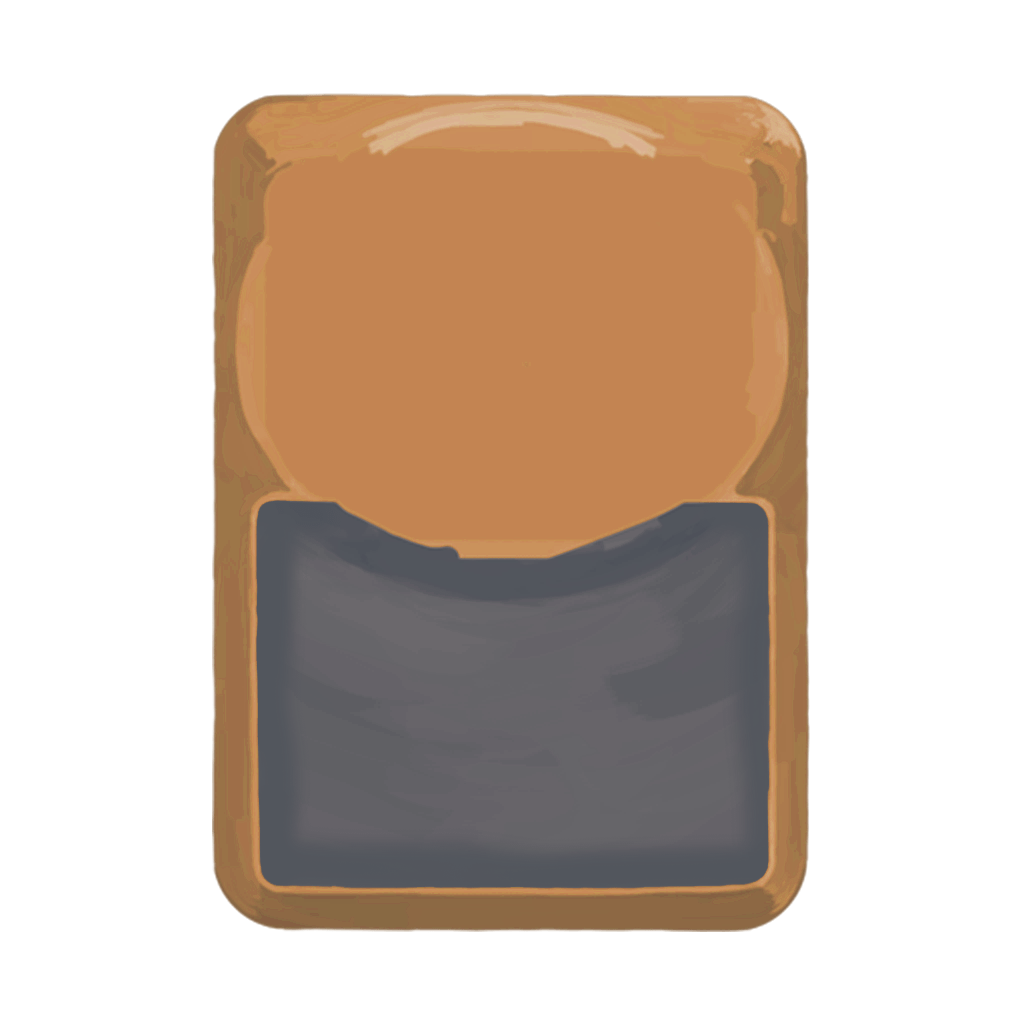
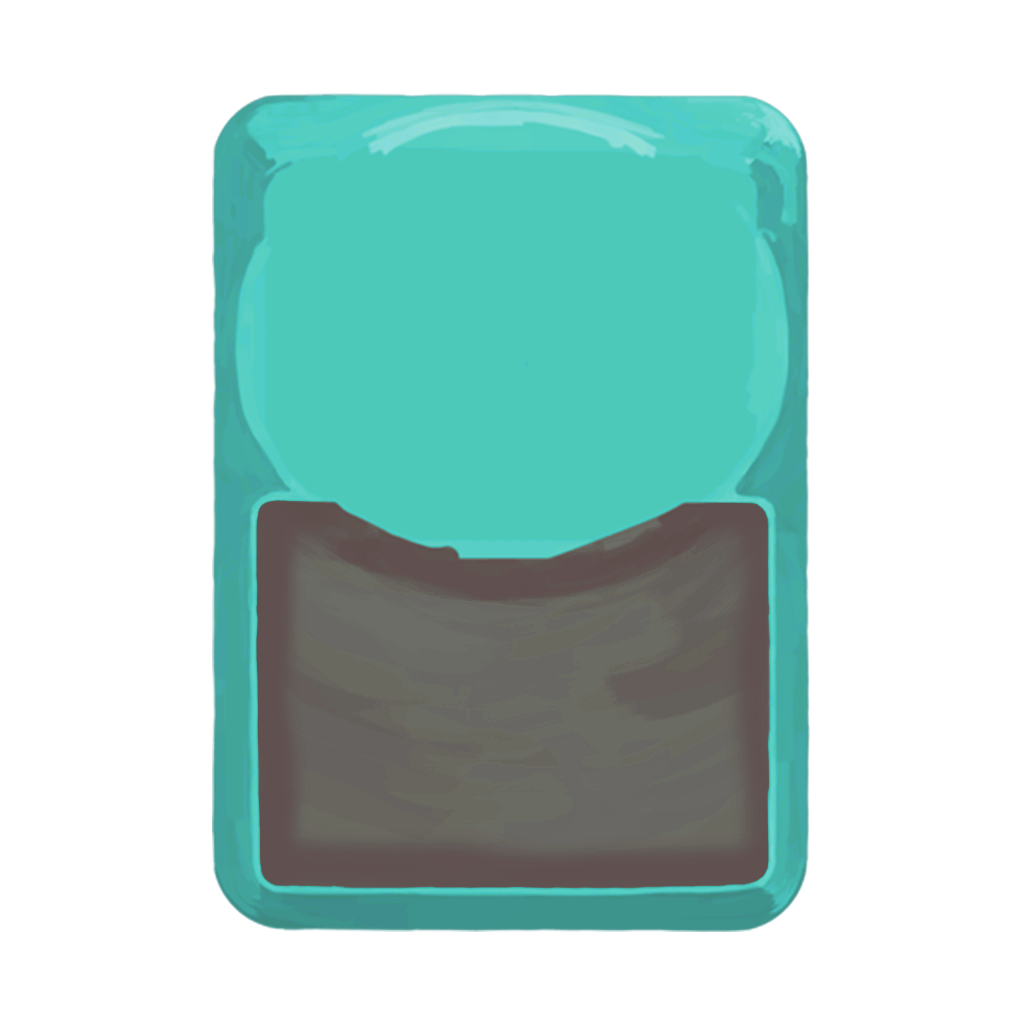
可运行

Changed region(s): [[0.1875, 0.0938, 0.8125, 0.9375]]

diff --git a/src/main/java/rukiamod/characters/MyCharacter.java b/src/main/java/rukiamod/characters/MyCharacter.java
@@ -1,0 +1,249 @@
+package rukiamod.characters;
+
+import basemod.abstracts.CustomPlayer;
+import com.badlogic.gdx.graphics.Color;
+import com.badlogic.gdx.graphics.g2d.BitmapFont;
+import com.evacipated.cardcrawl.modthespire.lib.SpireEnum;
+import com.megacrit.cardcrawl.actions.AbstractGameAction;
+import com.megacrit.cardcrawl.cards.AbstractCard;
+import com.megacrit.cardcrawl.characters.AbstractPlayer;
+import com.megacrit.cardcrawl.core.CardCrawlGame;
+import com.megacrit.cardcrawl.core.EnergyManager;
+import com.megacrit.cardcrawl.core.Settings;
+import com.megacrit.cardcrawl.cutscenes.CutscenePanel;
+import com.megacrit.cardcrawl.events.city.Vampires;
+import com.megacrit.cardcrawl.helpers.CardLibrary;
+import com.megacrit.cardcrawl.helpers.FontHelper;
+import com.megacrit.cardcrawl.helpers.ScreenShake;
+import com.megacrit.cardcrawl.localization.CharacterStrings;
+import com.megacrit.cardcrawl.relics.HandDrill;
+import com.megacrit.cardcrawl.screens.CharSelectInfo;
+import rukiamod.RukiaMod;
+import rukiamod.cards.Strike;
+
+
+import java.util.ArrayList;
+
+public class MyCharacter extends CustomPlayer {
+    // 火堆的人物立绘（行动前）
+    private static final String MY_CHARACTER_SHOULDER_1 = "RukiaModResources/img/char/shoulder1.png";
+    // 火堆的人物立绘（行动后）
+    private static final String MY_CHARACTER_SHOULDER_2 = "RukiaModResources/img/char/shoulder2.png";
+    // 人物死亡图像
+    private static final String CORPSE_IMAGE = "RukiaModResources/img/char/corpse.png";
+    // 战斗界面左下角能量图标的每个图层
+    private static final String[] ORB_TEXTURES = new String[]{
+            "RukiaModResources/img/UI/orb/layer5.png",
+            "RukiaModResources/img/UI/orb/layer4.png",
+            "RukiaModResources/img/UI/orb/layer3.png",
+            "RukiaModResources/img/UI/orb/layer2.png",
+            "RukiaModResources/img/UI/orb/layer1.png",
+            "RukiaModResources/img/UI/orb/layer6.png",
+            "RukiaModResources/img/UI/orb/layer5d.png",
+            "RukiaModResources/img/UI/orb/layer4d.png",
+            "RukiaModResources/img/UI/orb/layer3d.png",
+            "RukiaModResources/img/UI/orb/layer2d.png",
+            "RukiaModResources/img/UI/orb/layer1d.png"
+    };
+    // 每个图层的旋转速度
+    private static final float[] LAYER_SPEED = new float[]{-40.0F, -32.0F, 20.0F, -20.0F, 0.0F, -10.0F, -8.0F, 5.0F, -5.0F, 0.0F};
+    // 人物的本地化文本，如卡牌的本地化文本一样，如何书写见下
+    private static final CharacterStrings characterStrings = CardCrawlGame.languagePack.getCharacterString("RUKIA");
+
+    public MyCharacter(String name) {
+        super(name, PlayerColorEnum.MY_CHARACTER, ORB_TEXTURES,"RukiaModResources/img/UI/orb/vfx.png", LAYER_SPEED, null, null);
+
+
+        // 人物对话气泡的大小，如果游戏中尺寸不对在这里修改（libgdx的坐标轴左下为原点）
+        this.dialogX = (this.drawX + 0.0F * Settings.scale);
+        this.dialogY = (this.drawY + 150.0F * Settings.scale);
+
+
+        // 初始化你的人物，如果你的人物只有一张图，那么第一个参数填写你人物图片的路径。
+        this.initializeClass(
+                "RukiaModResources/img/char/character.png", // 人物图片
+                MY_CHARACTER_SHOULDER_2, MY_CHARACTER_SHOULDER_1,
+                CORPSE_IMAGE, // 人物死亡图像
+                this.getLoadout(),
+                0.0F, 0.0F,
+                200.0F, 220.0F, // 人物碰撞箱大小，越大的人物模型这个越大
+                new EnergyManager(3) // 初始每回合的能量
+        );
+
+
+        // 如果你的人物没有动画，那么这些不需要写
+        // this.loadAnimation("ExampleModResources/img/char/character.atlas", "ExampleModResources/img/char/character.json", 1.8F);
+        // AnimationState.TrackEntry e = this.state.setAnimation(0, "Idle", true);
+        // e.setTime(e.getEndTime() * MathUtils.random());
+        // e.setTimeScale(1.2F);
+
+
+    }
+
+    // 初始卡组的ID，可直接写或引用变量
+    public ArrayList<String> getStartingDeck() {
+        ArrayList<String> retVal = new ArrayList<>();
+        for(int x = 0; x<5; x++) {
+            retVal.add(Strike.ID);
+        }
+        retVal.add("RukiaMod:Strike");
+        return retVal;
+    }
+
+    // 初始遗物的ID，可以先写个原版遗物凑数
+    public ArrayList<String> getStartingRelics() {
+        ArrayList<String> retVal = new ArrayList<>();
+        retVal.add(HandDrill.ID);
+        return retVal;
+    }
+
+    public CharSelectInfo getLoadout() {
+        return new CharSelectInfo(
+                "Rukia", // 人物名字
+                "从尸魂界而来的死神", // 人物介绍
+                75, // 当前血量
+                75, // 最大血量
+                0, // 初始充能球栏位
+                99, // 初始携带金币
+                5, // 每回合抽牌数量
+                this, // 别动
+                this.getStartingRelics(), // 初始遗物
+                this.getStartingDeck(), // 初始卡组
+                false // 别动
+        );
+    }
+
+
+    // 人物名字（出现在游戏左上角）
+    @Override
+    public String getTitle(PlayerClass playerClass) {
+        return "RUKIA";
+    }
+
+    // 你的卡牌颜色（这个枚举在最下方创建）
+    @Override
+    public AbstractCard.CardColor getCardColor() {
+        return PlayerColorEnum.RUKIA_BLEACH;
+    }
+
+    // 翻牌事件出现的你的职业牌（一般设为打击）
+    @Override
+    public AbstractCard getStartCardForEvent() {
+        return new Strike();
+    }
+
+    // 卡牌轨迹颜色
+    @Override
+    public Color getCardTrailColor() {
+        return RukiaMod.MY_COLOR;
+    }
+
+    // 高进阶带来的生命值损失
+    @Override
+    public int getAscensionMaxHPLoss() {
+        return 5;
+    }
+
+    // 卡牌的能量字体，没必要修改
+    @Override
+    public BitmapFont getEnergyNumFont() {
+        return FontHelper.energyNumFontBlue;
+    }
+
+    // 人物选择界面点击你的人物按钮时触发的方法，这里为屏幕轻微震动
+    @Override
+    public void doCharSelectScreenSelectEffect() {
+        CardCrawlGame.screenShake.shake(ScreenShake.ShakeIntensity.MED, ScreenShake.ShakeDur.SHORT, false);
+    }
+
+    // 碎心图片
+    @Override
+    public ArrayList<CutscenePanel> getCutscenePanels() {
+        ArrayList<CutscenePanel> panels = new ArrayList<>();
+        // 有两个参数的，第二个参数表示出现图片时播放的音效
+        panels.add(new CutscenePanel("ExampleModResources/img/char/Victory1.png", "ATTACK_MAGIC_FAST_1"));
+        panels.add(new CutscenePanel("ExampleModResources/img/char/Victory2.png"));
+        panels.add(new CutscenePanel("ExampleModResources/img/char/Victory3.png"));
+        return panels;
+    }
+
+    // 自定义模式选择你的人物时播放的音效
+    @Override
+    public String getCustomModeCharacterButtonSoundKey() {
+        return "ATTACK_HEAVY";
+    }
+
+    // 游戏中左上角显示在你的名字之后的人物名称
+    @Override
+    public String getLocalizedCharacterName() {
+        return "RUKIA";
+    }
+
+    // 创建人物实例，照抄
+    @Override
+    public AbstractPlayer newInstance() {
+        return new MyCharacter(this.name);
+    }
+
+    // 第三章面对心脏说的话（例如战士是“你握紧了你的长刀……”之类的）
+    @Override
+    public String getSpireHeartText() {
+        return "你手中的袖白雪开始颤抖...";
+    }
+
+    // 打心脏的颜色，不是很明显
+    @Override
+    public Color getSlashAttackColor() {
+        return RukiaMod.MY_COLOR;
+    }
+
+    // 吸血鬼事件文本，主要是他（索引为0）和她（索引为1）的区别（机器人另外）
+    @Override
+    public String getVampireText() {
+        return Vampires.DESCRIPTIONS[0];
+    }
+
+    // 卡牌选择界面选择该牌的颜色
+    @Override
+    public Color getCardRenderColor() {
+        return RukiaMod.MY_COLOR;
+    }
+
+    // 第三章面对心脏造成伤害时的特效
+    @Override
+    public AbstractGameAction.AttackEffect[] getSpireHeartSlashEffect() {
+        return new AbstractGameAction.AttackEffect[]{AbstractGameAction.AttackEffect.SLASH_HEAVY, AbstractGameAction.AttackEffect.FIRE, AbstractGameAction.AttackEffect.SLASH_DIAGONAL, AbstractGameAction.AttackEffect.SLASH_HEAVY, AbstractGameAction.AttackEffect.FIRE, AbstractGameAction.AttackEffect.SLASH_DIAGONAL};
+    }
+
+    // 以下为原版人物枚举、卡牌颜色枚举扩展的枚举，需要写，接下来要用
+
+    // 注意此处是在 MyCharacter 类内部的静态嵌套类中定义的新枚举值
+    // 不可将该定义放在外部的 MyCharacter 类中，具体原因见《高级技巧 / 01 - Patch / SpireEnum》
+    public static class PlayerColorEnum {
+        // 修改为你的颜色名称，确保不会与其他mod冲突
+        @SpireEnum
+        public static PlayerClass MY_CHARACTER;
+
+        // ***将CardColor和LibraryType的变量名改为你的角色的颜色名称，确保不会与其他mod冲突***
+        // ***并且名称需要一致！！！***
+        @SpireEnum
+        public static AbstractCard.CardColor RUKIA_BLEACH;
+
+        // 如果你想添加新的颜色，不要忘记同时添加两个枚举
+        // @SpireEnum
+        // public static AbstractCard.CardColor EXAMPLE_RED;
+    }
+
+    public static class PlayerLibraryEnum {
+        // ***将CardColor和LibraryType的变量名改为你的角色的颜色名称，确保不会与其他mod冲突***
+        // ***并且名称需要一致！！！***
+
+        // 这个变量未被使用（呈现灰色）是正常的
+        @SpireEnum
+        public static CardLibrary.LibraryType RUKIA_BLEACH;
+
+        // 如果你想添加新的颜色，不要忘记同时添加两个枚举
+        // @SpireEnum
+        // public static AbstractCard.LibraryType EXAMPLE_RED;
+    }
+}

diff --git a/src/main/java/rukiamod/RukiaMod.java b/src/main/java/rukiamod/RukiaMod.java
@@ -1,34 +1,74 @@
 package rukiamod;
 
+import basemod.interfaces.EditCharactersSubscriber;
+import basemod.interfaces.EditRelicsSubscriber;
+import basemod.interfaces.EditStringsSubscriber;
 import com.evacipated.cardcrawl.modthespire.lib.SpireInitializer;
 
 import basemod.BaseMod;
 import basemod.interfaces.EditCardsSubscriber;
+import com.megacrit.cardcrawl.core.CardCrawlGame;
 import com.megacrit.cardcrawl.localization.CardStrings;
 import com.megacrit.cardcrawl.localization.PowerStrings;
 import com.megacrit.cardcrawl.localization.RelicStrings;
+import com.badlogic.gdx.graphics.Color;
+
 import rukiamod.cards.Strike;
+import rukiamod.characters.MyCharacter;
+
+import static rukiamod.characters.MyCharacter.PlayerColorEnum.MY_CHARACTER;
 
 @SpireInitializer
-public class RukiaMod implements EditCardsSubscriber {
+public class RukiaMod implements EditCardsSubscriber, EditStringsSubscriber, EditCharactersSubscriber {
+    // 人物选择界面按钮的图片
+    private static final String MY_CHARACTER_BUTTON = "RukiaModResources/img/char/Character_Button.png";
+    // 人物选择界面的立绘
+    private static final String MY_CHARACTER_PORTRAIT = "RukiaModResources/img/char/Character_Portrait.png";
+    // 攻击牌的背景（小尺寸）
+    private static final String BG_ATTACK_512 = "RukiaModResources/img/512/bg_attack_512.png";
+    // 能力牌的背景（小尺寸）
+    private static final String BG_POWER_512 = "RukiaModResources/img/512/bg_power_512.png";
+    // 技能牌的背景（小尺寸）
+    private static final String BG_SKILL_512 = "RukiaModResources/img/512/bg_skill_512.png";
+    // 在卡牌和遗物描述中的能量图标
+    private static final String SMALL_ORB = "RukiaModResources/img/char/small_orb.png";
+    // 攻击牌的背景（大尺寸）
+    private static final String BG_ATTACK_1024 = "RukiaModResources/img/1024/bg_attack.png";
+    // 能力牌的背景（大尺寸）
+    private static final String BG_POWER_1024 = "RukiaModResources/img/1024/bg_power.png";
+    // 技能牌的背景（大尺寸）
+    private static final String BG_SKILL_1024 = "RukiaModResources/img/1024/bg_skill.png";
+    // 在卡牌预览界面的能量图标
+    private static final String BIG_ORB = "RukiaModResources/img/char/card_orb.png";
+    // 小尺寸的能量图标（战斗中，牌堆预览）
+    private static final String ENEYGY_ORB = "RukiaModResources/img/char/cost_orb.png";
+    public static final Color MY_COLOR = new Color(79.0F / 255.0F, 185.0F / 255.0F, 9.0F / 255.0F, 1.0F);
     public RukiaMod() {
         BaseMod.subscribe(this);
+        BaseMod.addColor(MyCharacter.PlayerColorEnum.RUKIA_BLEACH, MY_COLOR, MY_COLOR, MY_COLOR,
+                MY_COLOR, MY_COLOR, MY_COLOR, MY_COLOR,BG_ATTACK_512,BG_SKILL_512,BG_POWER_512,
+                ENEYGY_ORB,BG_ATTACK_1024,BG_SKILL_1024,BG_POWER_1024,BIG_ORB,SMALL_ORB
+        );
 
     }
 
 
-    public static void initialize() {
-        new rukiamod.RukiaMod();
-    }
-    public void receiveEditStrings() {
-        BaseMod.loadCustomStringsFile(CardStrings.class, "RukiaModResources/localization/ZHS/cards.json");
-        BaseMod.loadCustomStringsFile(PowerStrings.class, "RukiaModResources/localization/ZHS/powers.json");
-        BaseMod.loadCustomStringsFile(RelicStrings.class, "RukiaModResources/localization/ZHS/relics.json");
-        // 如果语言设置为简体中文，则加载ZHS文件夹的资源
-    }
+    public static void initialize() {new RukiaMod();}
 
     @Override
     public void receiveEditCards() {
         BaseMod.addCard(new Strike());
     }
+
+    @Override
+    public void receiveEditCharacters() {
+        // 向basemod注册人物
+        BaseMod.addCharacter(new MyCharacter(CardCrawlGame.playerName), MY_CHARACTER_BUTTON, MY_CHARACTER_PORTRAIT, MY_CHARACTER);
+    }
+
+    public void receiveEditStrings() {
+        BaseMod.loadCustomStringsFile(CardStrings.class, "RukiaModResources/localization/ZHS/cards.json");
+    }
+
+
 }

diff --git a/src/main/java/rukiamod/cards/Strike.java b/src/main/java/rukiamod/cards/Strike.java
@@ -10,6 +10,7 @@ import com.megacrit.cardcrawl.localization.CardStrings;
 import com.megacrit.cardcrawl.monsters.AbstractMonster;
 import basemod.abstracts.CustomCard;
 
+import static rukiamod.characters.MyCharacter.PlayerColorEnum.RUKIA_BLEACH;
 
 
 public class Strike extends CustomCard {
@@ -20,7 +21,7 @@ public class Strike extends CustomCard {
     private static final int COST = 1;
     private static final String DESCRIPTION = CARD_STRINGS.DESCRIPTION;
     public static final CardType TYPE = CardType.ATTACK;
-    private static final CardColor COLOR = CardColor.COLORLESS;
+    private static final CardColor COLOR = RUKIA_BLEACH;
     public static final CardRarity RARITY = CardRarity.BASIC;
     public static final CardTarget TARGET = CardTarget.ENEMY;
 
